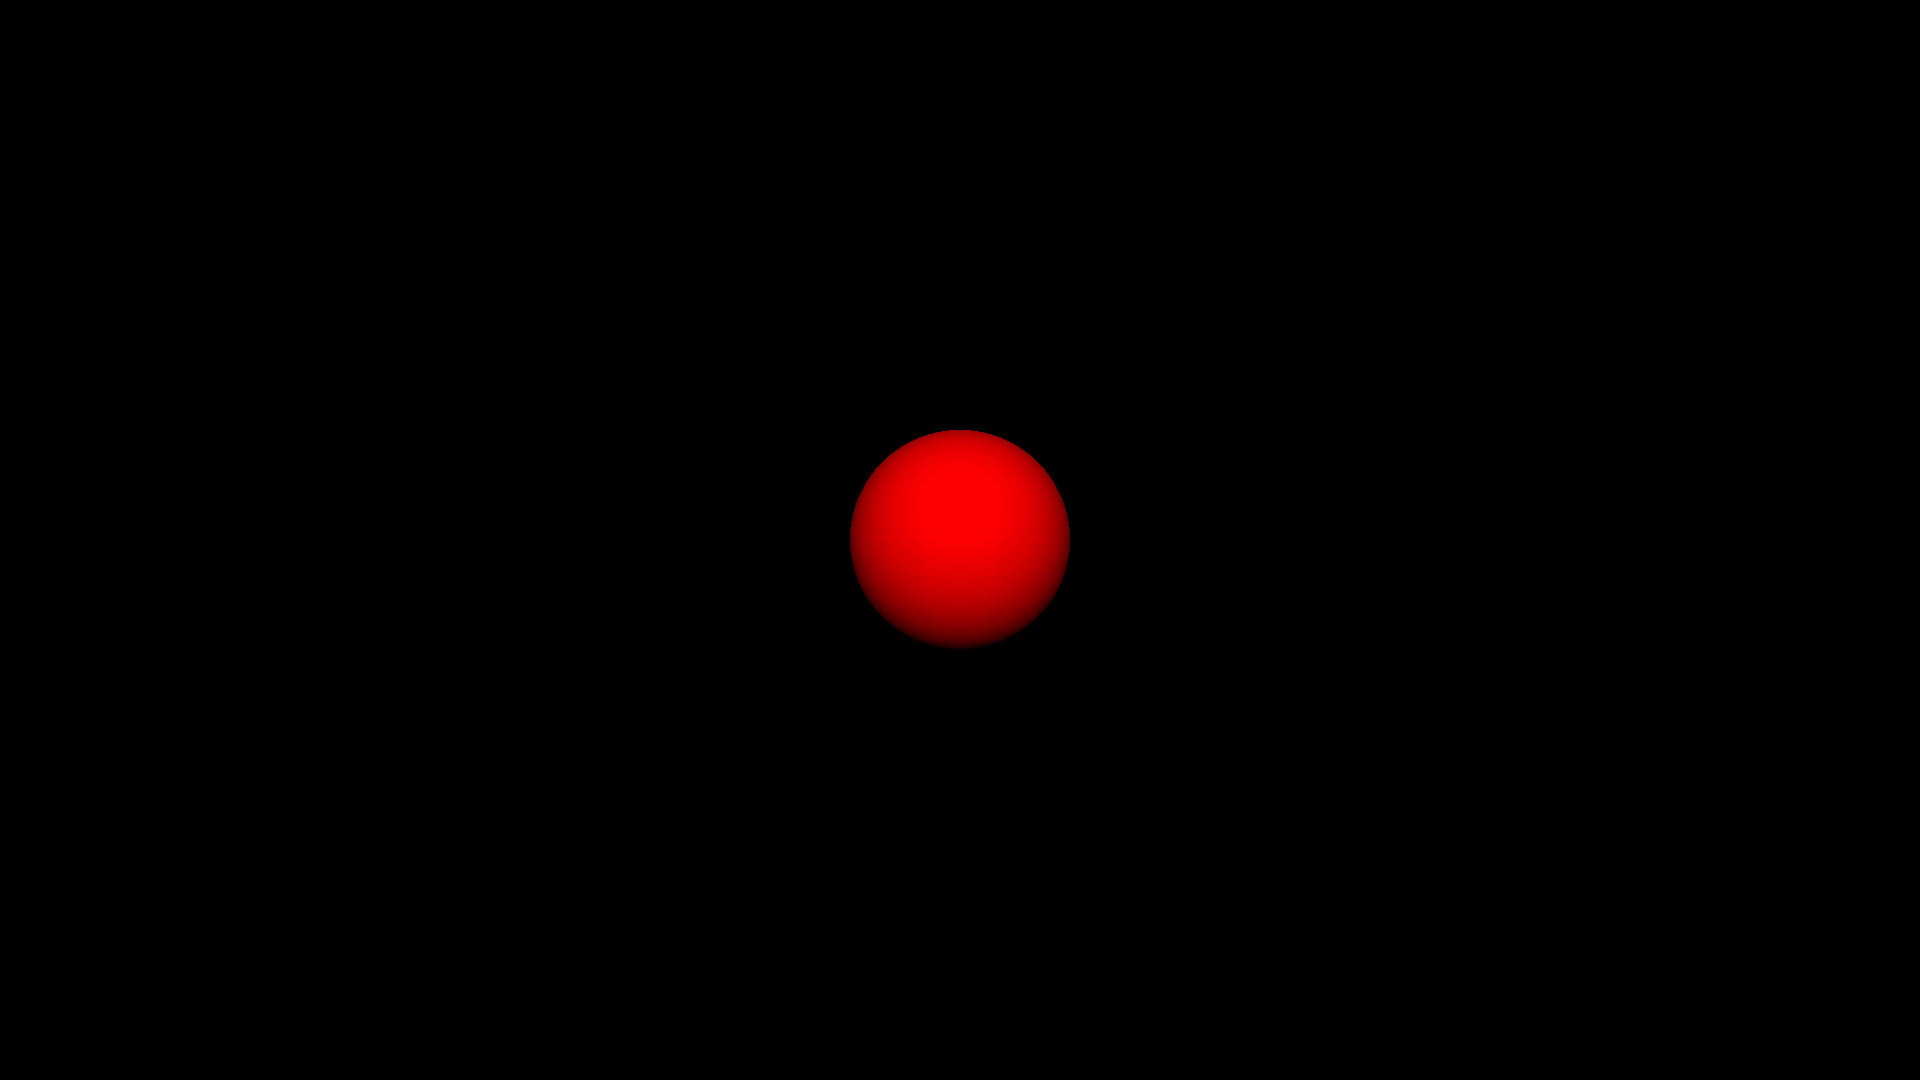
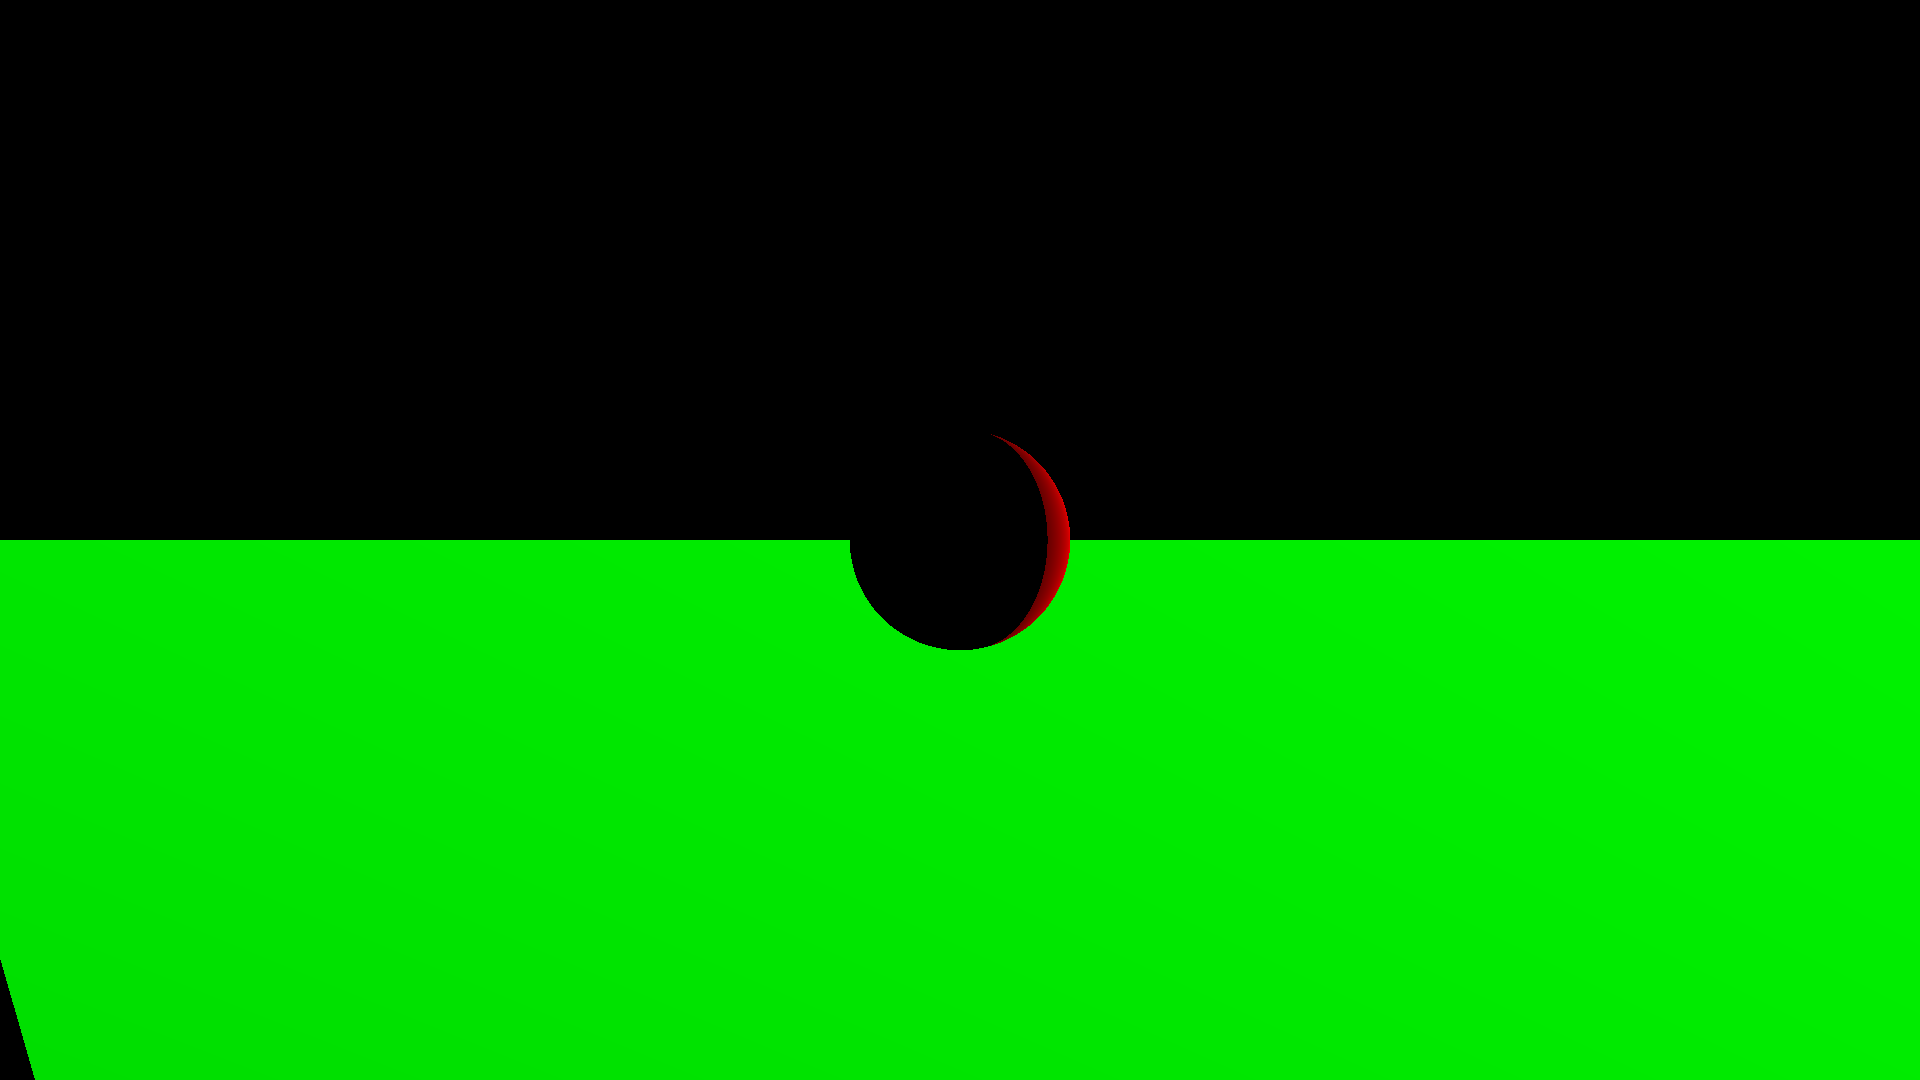
add new main with plane

diff --git a/src/Raytracer/Vector.cpp b/src/Raytracer/Vector.cpp
@@ -84,7 +84,6 @@ double Raytracer::Vector::computeScalarProduct(Transformable::Point3d fst, Trans
 
 void Raytracer::Vector::compute()
 {
-    /*
     Transformable::Point3d ambientLightColor = _light->getAmbientLightColor();
     Transformable::Point3d materialBaseColor = _hittedPrimitive->getMaterialBaseColor();
     Transformable::Point3d ambient = {
@@ -92,7 +91,7 @@ void Raytracer::Vector::compute()
         ambientLightColor.y * materialBaseColor.y,
         ambientLightColor.z * materialBaseColor.z
     };
-    _normal = _hittedPrimitive->getNormalVector()->getAxis();
+    _normal = _hittedPrimitive->getNormalVector();
     _scalarNL = computeScalarProduct(_normal, _axis);
     if (_scalarNL < 0) {
         _res = Display::Color{0, 0, 0};
@@ -102,14 +101,7 @@ void Raytracer::Vector::compute()
     Transformable::Point3d lightColor = _light->getLightColor();
     Transformable::Point3d diffuse = {lightColor.x * materialBaseColor.x * _scalarNL, lightColor.y * materialBaseColor.y * _scalarNL, lightColor.z * materialBaseColor.z * _scalarNL};
     Transformable::Point3d specular = _hittedPrimitive->getSpecular();
-    _res = Display::Color{(int)((ambient.x + diffuse.x + specular.x) * 255), (int)((ambient.y + diffuse.y + specular.y) * 255), (int)((ambient.z + diffuse.z + specular.z) * 255)};*/
-    Transformable::Point3d ambientLightColor = _light->getAmbientLightColor();
-    Transformable::Point3d materialBaseColor = _hittedPrimitive->getMaterialBaseColor();
-    _normal = _hittedPrimitive->getNormalVector();
-    Transformable::Point3d point = getPos();
-    double insentity = _normal.dot(Transformable::Point3d{0, 0.3, -1});
-    Display::Color color = {255, 0, 0};
-    _res = Display::Color {(int)(insentity * color._r), (int)(insentity * color._g), (int)(insentity * color._b)};
+    _res = Display::Color{(int)((ambient.x + diffuse.x + specular.x) * 255), (int)((ambient.y + diffuse.y + specular.y) * 255), (int)((ambient.z + diffuse.z + specular.z) * 255)};
 }
 
 int Raytracer::Vector::checkValue(double value)

diff --git a/src/main.cpp b/src/main.cpp
@@ -19,13 +19,14 @@ int main()
     std::unique_ptr<Scene::IScene> scene = std::make_unique<Scene::Scene>();
     std::shared_ptr<Transformable::Camera::ICamera> camera = std::make_shared<Transformable::Camera::Camera>(Transformable::Point3d{0, 0, 0}, Transformable::Point3d{0, 0, 1}, 1920, 1080, 90);
     std::shared_ptr<Material::IMaterial> material = std::make_shared<Material::FlatColor>(Display::Color{255, 0, 0});
+    std::shared_ptr<Material::IMaterial> material2 = std::make_shared<Material::FlatColor>(Display::Color{0, 255, 0});
     std::shared_ptr<Transformable::Primitive::IPrimitive> sphere = std::make_shared<Transformable::Primitive::Sphere>(Transformable::Point3d{0, 0, 5}, 1.0f, material);
-    std::shared_ptr<Transformable::Primitive::IPrimitive> sphere2 = std::make_shared<Transformable::Primitive::Sphere>(Transformable::Point3d{4, 0, 35}, 5.0f, material);
+    std::shared_ptr<Transformable::Primitive::IPrimitive> plane = std::make_shared<Transformable::Primitive::Plane>(Transformable::Point3d{-10, 0, 5}, 23.0f, 12.0f, Transformable::Point3d{40, 0, 0}, material2);
     std::shared_ptr<Transformable::Light::ILight> light = std::make_shared<Transformable::Light::Ambient>(Display::Color{255, 255, 255}, (float)0.4, Transformable::Point3d{100, 0, 100});
 
     scene->addCamera(camera);
     scene->addPrimitive(sphere);
-    //scene->addPrimitive(sphere2);
+    scene->addPrimitive(plane);
     scene->addLight(light);
     scene->playScene("test");
     return 0;
